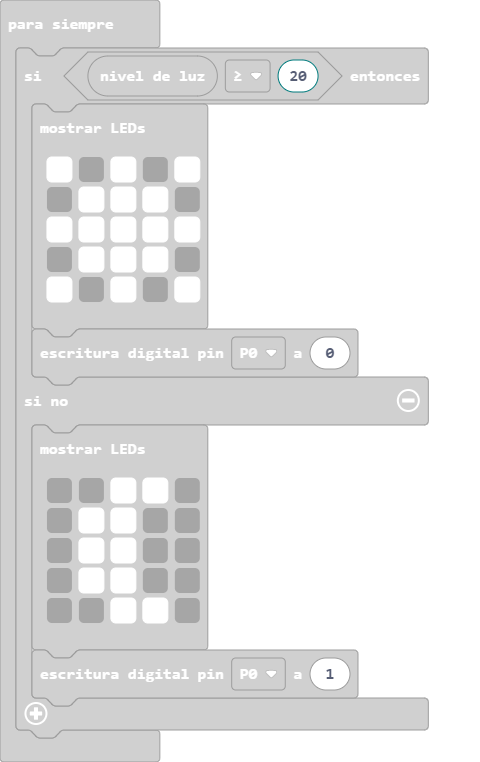
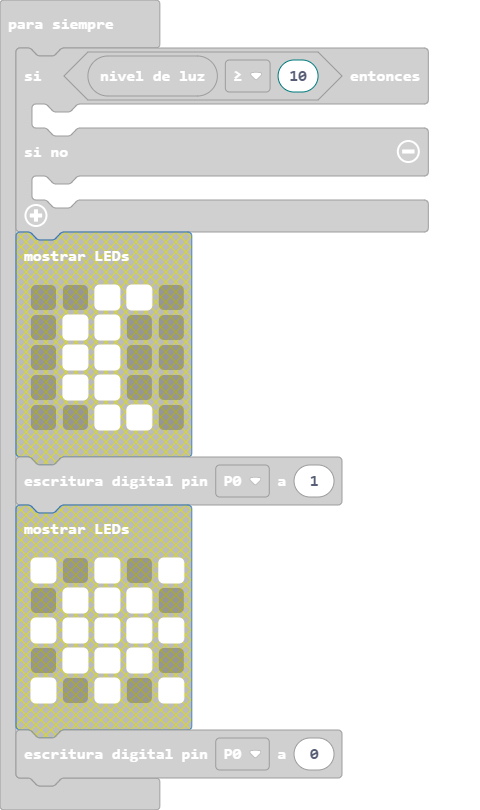
quitados iconos de sol/luna y bajado el umbral de luz a 10

diff --git a/main.ts b/main.ts
@@ -1,21 +1,7 @@
 basic.forever(function () {
-    if (input.lightLevel() >= 20) {
-        basic.showLeds(`
-            # . # . #
-            . # # # .
-            # # # # #
-            . # # # .
-            # . # . #
-            `)
+    if (input.lightLevel() >= 10) {
         pins.digitalWritePin(DigitalPin.P0, 0)
     } else {
-        basic.showLeds(`
-            . . # # .
-            . # # . .
-            . # # . .
-            . # # . .
-            . . # # .
-            `)
         pins.digitalWritePin(DigitalPin.P0, 1)
     }
 })
